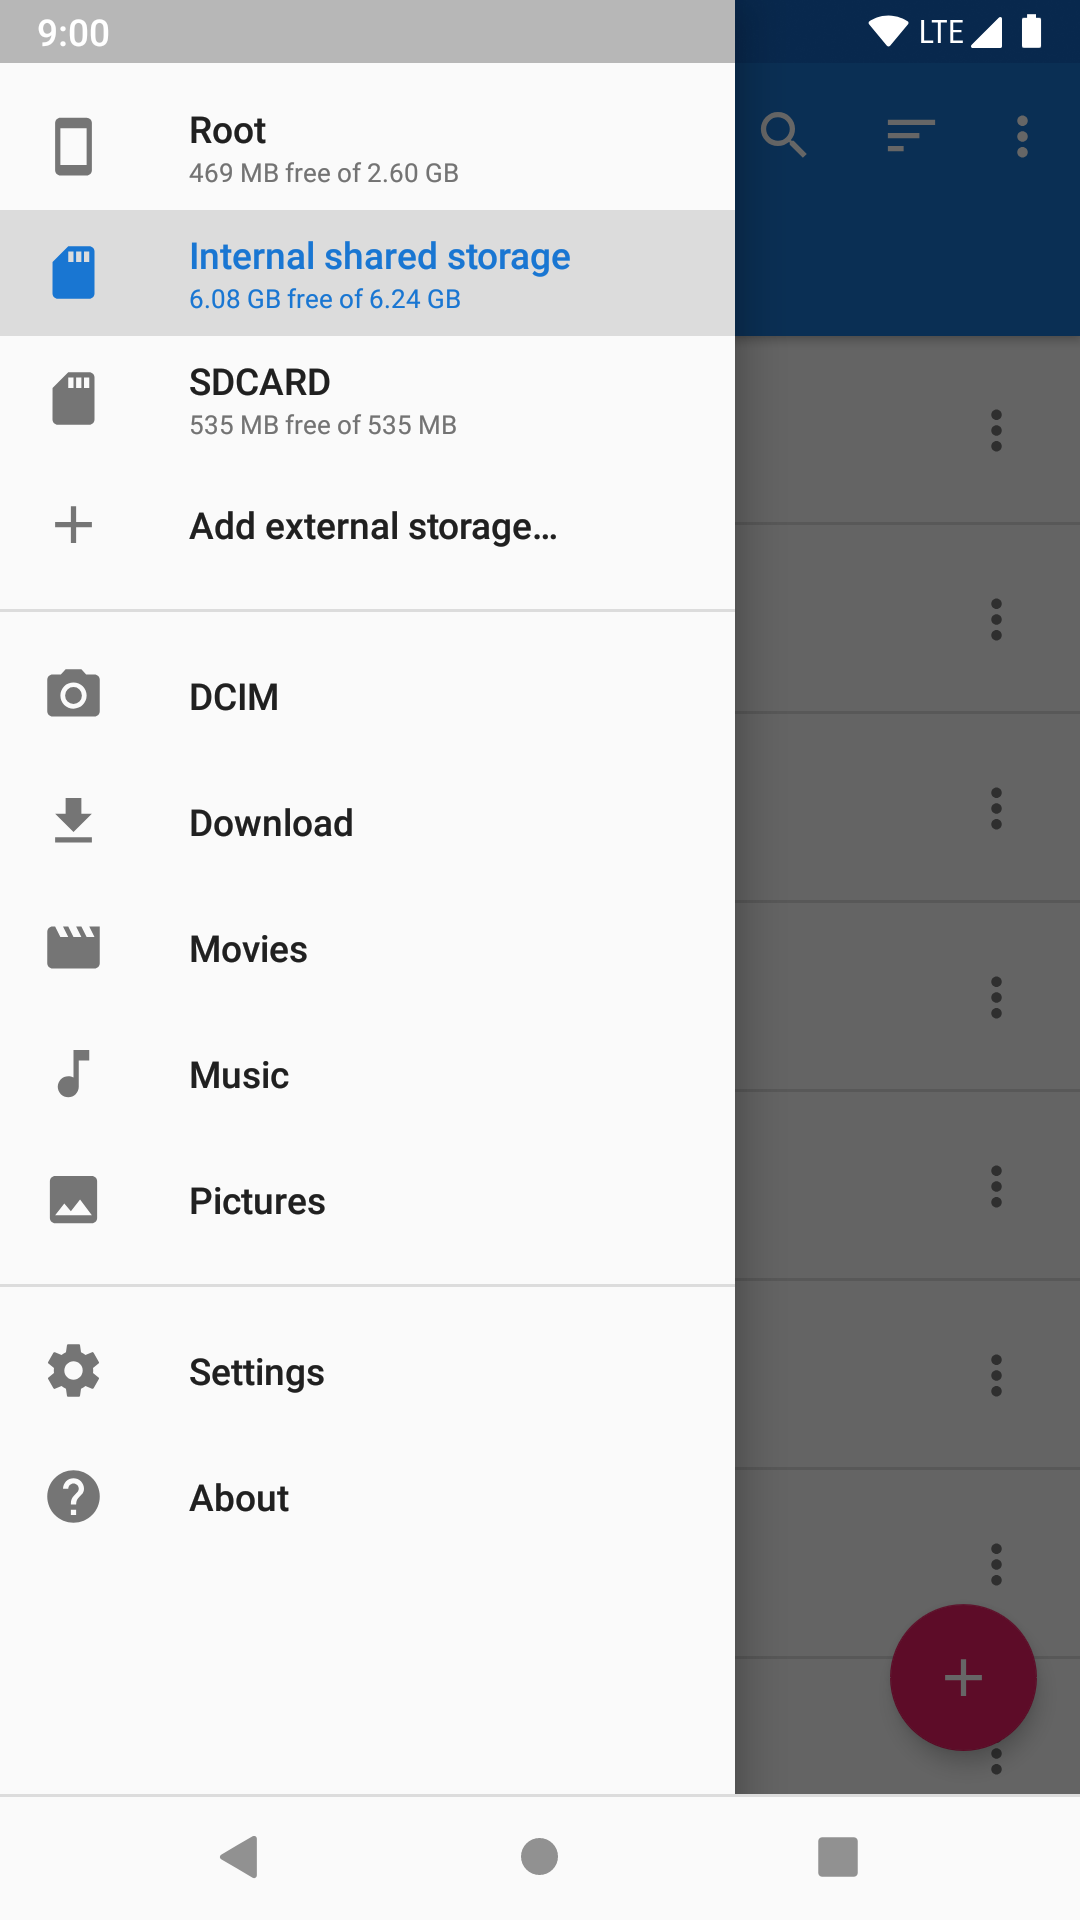
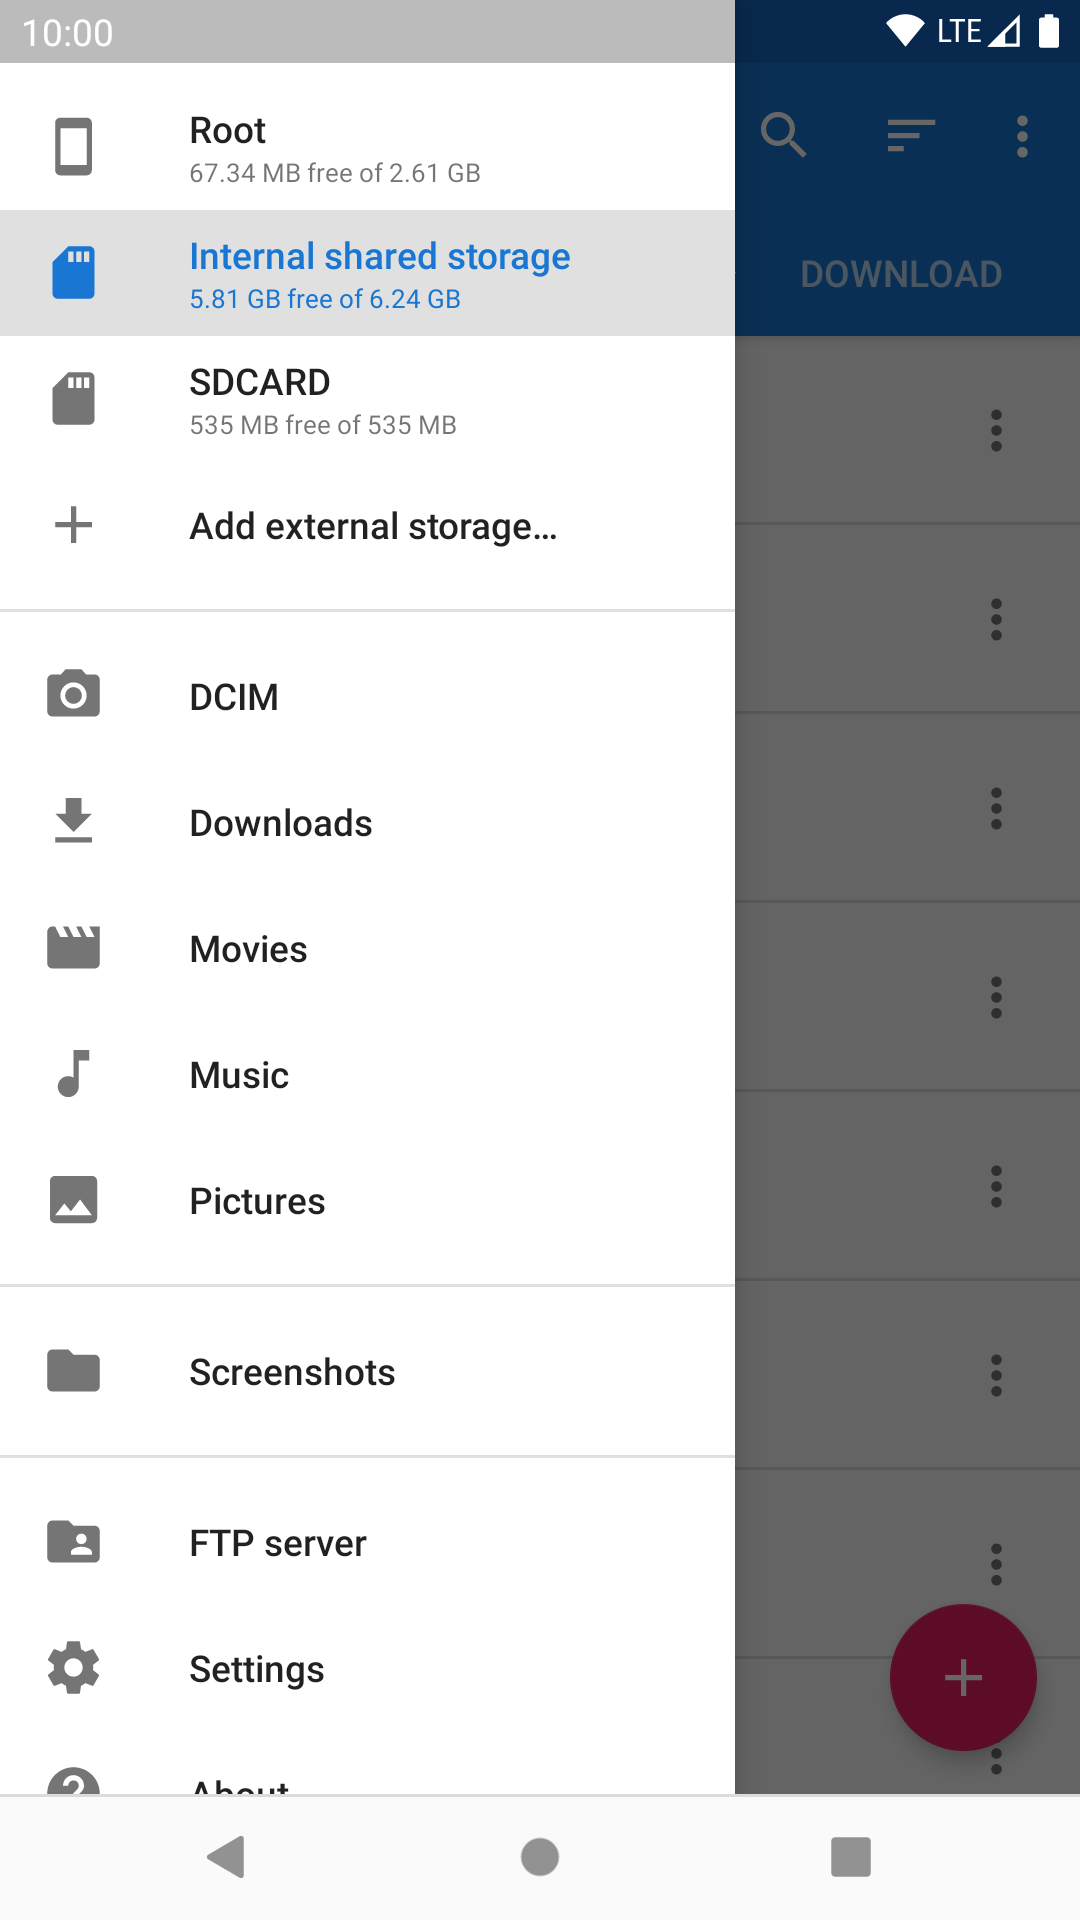
[Feature] Update screenshots.

diff --git a/README.md b/README.md
@@ -10,8 +10,8 @@ Download: [Google Play](https://play.google.com/store/apps/details?id=me.zhangha
 
 ## Preview
 
-<p><img src="screenshots/main.png" width="32%" /> <img src="screenshots/drawer.png" width="32%" /> <img src="screenshots/properties-basic.png" width="32%" />
-<img src="screenshots/settings.png" width="32%" /> <img src="screenshots/standard-directories.png" width="32%" /> <img src="screenshots/about.png" width="32%" /></p>
+<p><img src="screenshots/main.png" width="32%" /> <img src="screenshots/drawer.png" width="32%" /> <img src="screenshots/properties.png" width="32%" />
+<img src="screenshots/main-night.png" width="32%" /> <img src="screenshots/main-md2.png" width="32%" /> <img src="screenshots/main-md2-night.png" width="32%" /></p>
 
 ## Features
 

diff --git a/README_zh-CN.md b/README_zh-CN.md
@@ -8,8 +8,8 @@
 
 ## 预览
 
-<p><img src="screenshots/main.png" width="32%" /> <img src="screenshots/drawer.png" width="32%" /> <img src="screenshots/properties-basic.png" width="32%" />
-<img src="screenshots/settings.png" width="32%" /> <img src="screenshots/standard-directories.png" width="32%" /> <img src="screenshots/about.png" width="32%" /></p>
+<p><img src="screenshots/main.png" width="32%" /> <img src="screenshots/drawer.png" width="32%" /> <img src="screenshots/properties.png" width="32%" />
+<img src="screenshots/main-night.png" width="32%" /> <img src="screenshots/main-md2.png" width="32%" /> <img src="screenshots/main-md2-night.png" width="32%" /></p>
 
 ## 特性
 
